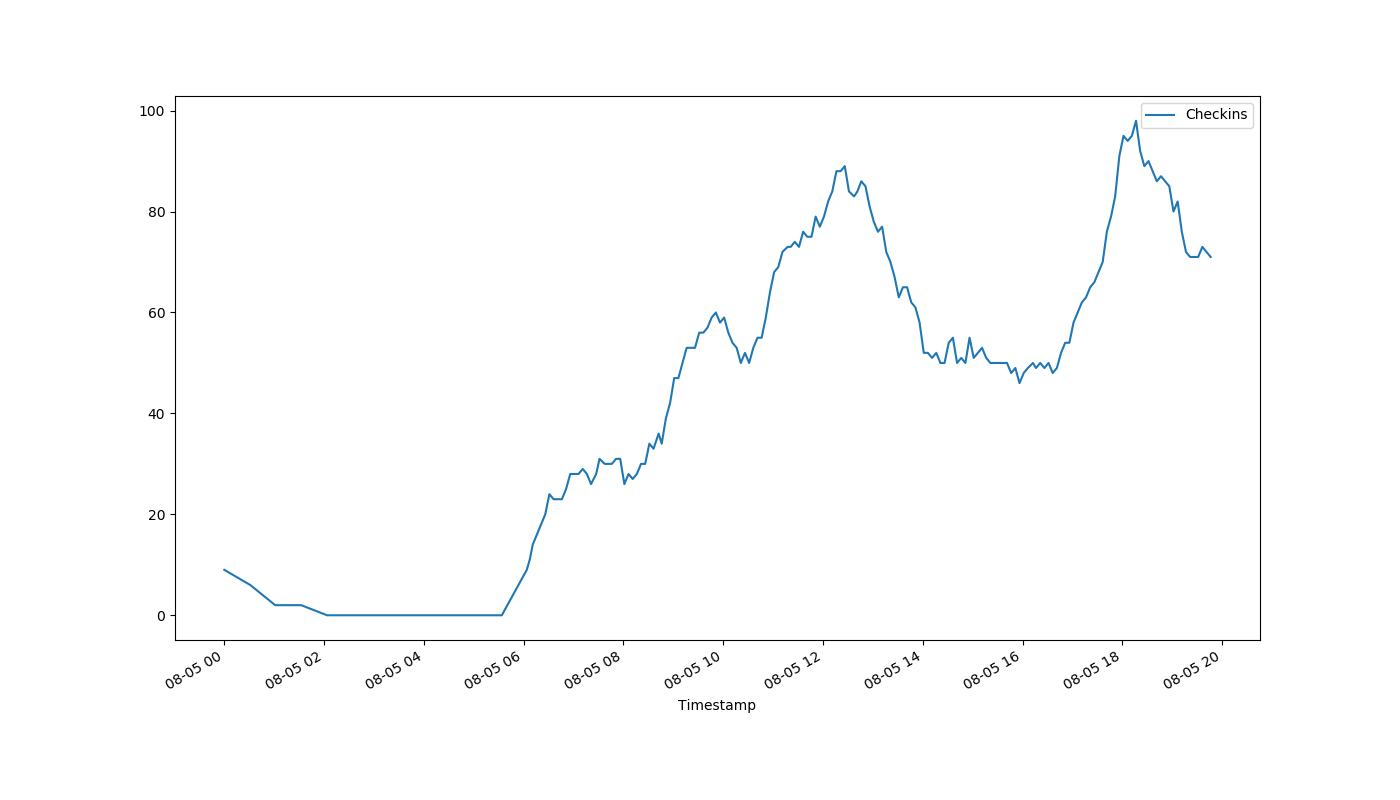
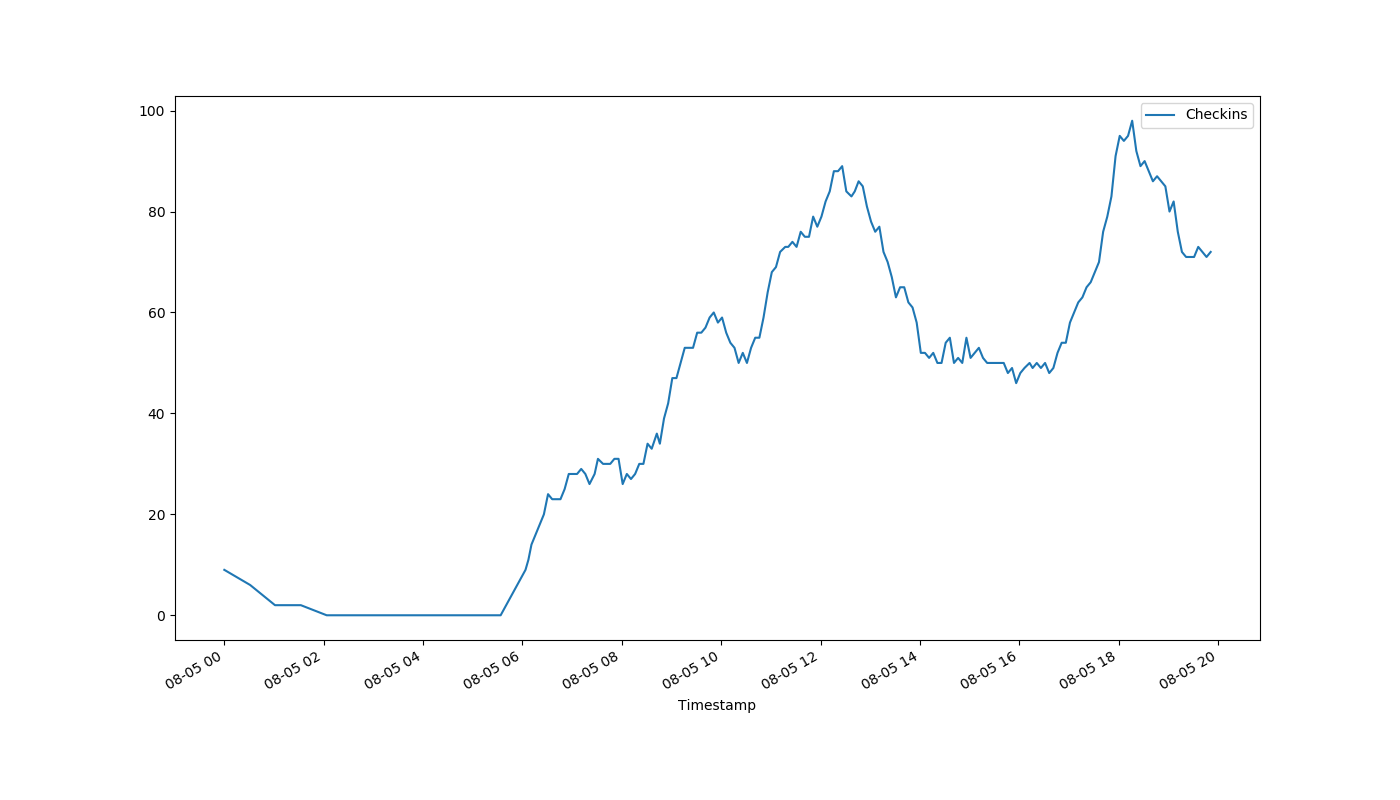
auto-Aug-05-19:51:34

diff --git a/index.html b/index.html
@@ -1,1 +1,1 @@
-<!DOCTYPE html><html><head><meta http-equiv="refresh" content="30"><link rel='stylesheet' href='holmcurrent.css'></head><body><p id='count'>71</p><div id='graph-wrap'><img id='graph' src='holmgraph-Aug-05.png'></div><p id='updated'>Last updated 19:46:05 / 19:46:01</p></body></html>
+<!DOCTYPE html><html><head><meta http-equiv="refresh" content="30"><link rel='stylesheet' href='holmcurrent.css'></head><body><p id='count'>72</p><div id='graph-wrap'><img id='graph' src='holmgraph-Aug-05.png'></div><p id='updated'>Last updated 19:51:06 / 19:51:01</p></body></html>
